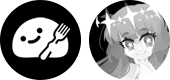
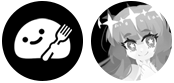
CSS resizing

diff --git a/css/style.css b/css/style.css
@@ -125,7 +125,7 @@ html {
 
 
 h1 {
-  font-size: 50px;
+  font-size: 210%;
 }
 
 
@@ -165,19 +165,19 @@ h1 {
 }
 
 .nav {
-  position: absolute;
-  top: 50%;
-  margin-top: -10px;
-  background-color:black;
-  width: 60px;
-  height: 60px;
-  z-index: 2;
-  cursor: pointer;
-  border-radius: 50%;
-  border: none;
-  outline: none;
-  color: white;
-  -webkit-user-select: none;
+    position: absolute;
+    top: 50%;
+    margin-top: -10px;
+    background-color: black;
+    width: 7%;
+    height: 10%;
+    z-index: 2;
+    cursor: pointer;
+    border-radius: 50%;
+    border: none;
+    outline: none;
+    color: white;
+    -webkit-user-select: none;
 }
 
 .nav-left {
@@ -190,26 +190,23 @@ h1 {
 
 
 .arrow-right {
-  width: 0;
-  height: 0;
-  border-top: 20px solid transparent;
-  border-bottom: 20px solid transparent;
-
-  border-left: 20px solid white;
-  background: transparent;
-
-  margin: 10px 20px;
+    width: 0;
+    height: 0;
+    border-top: 20px solid transparent;
+    border-bottom: 20px solid transparent;
+    border-left: 20px solid white;
+    background: transparent;
+    margin: 15% 35%;
 }
 
 .arrow-left {
-  width: 0;
-  height: 0;
-  border-top: 20px solid transparent;
-  border-bottom: 20px solid transparent;
-  border-right:20px solid white;
-  margin: 10px 15px;
+    width: 0;
+    height: 0;
+    border-top: 20px solid transparent;
+    border-bottom: 20px solid transparent;
+    border-right: 20px solid white;
+    margin: 15% 25%;
 }
-
 
 .faq {
   color: black;

diff --git a/css/mobile.css b/css/mobile.css
@@ -284,19 +284,19 @@ footer {
 }
 
 .nav {
-  position: absolute;
-  top: 50%;
-  margin-top: -10px;
-  background-color:black;
-  width: 60px;
-  height: 60px;
-  z-index: 2;
-  cursor: pointer;
-  border-radius: 50%;
-  border: none;
-  outline: none;
-  color: white;
-  -webkit-user-select: none;
+    position: absolute;
+    top: 50%;
+    margin-top: -10px;
+    background-color: black;
+    width: 10%;
+    height: auto;
+    z-index: 2;
+    cursor: pointer;
+    border-radius: 50%;
+    border: none;
+    outline: none;
+    color: white;
+    -webkit-user-select: none;
 }
 
 .nav-left {
@@ -309,25 +309,24 @@ footer {
 
 
 .arrow-right {
-  width: 0;
-  height: 0;
-  border-top: 20px solid transparent;
-  border-bottom: 20px solid transparent;
-
-  border-left: 20px solid white;
-  background: transparent;
-
-  margin: 10px 20px;
+    width: 0;
+    height: 0;
+    border-top: 2vw solid transparent;
+    border-bottom: 2vw solid transparent;
+    border-left: 2vw solid white;
+    background: transparent;
+    margin: 28% 40%;
 }
 
 .arrow-left {
-  width: 0;
-  height: 0;
-  border-top: 20px solid transparent;
-  border-bottom: 20px solid transparent;
-  border-right:20px solid white;
-  margin: 10px 15px;
+    width: 0;
+    height: 0;
+    border-top: 2vw solid transparent;
+    border-bottom: 2vw solid transparent;
+    border-right: 2vw solid white;
+    margin: 28% 33%;
 }
+
 .round {
   border-radius: 50%;
 }
